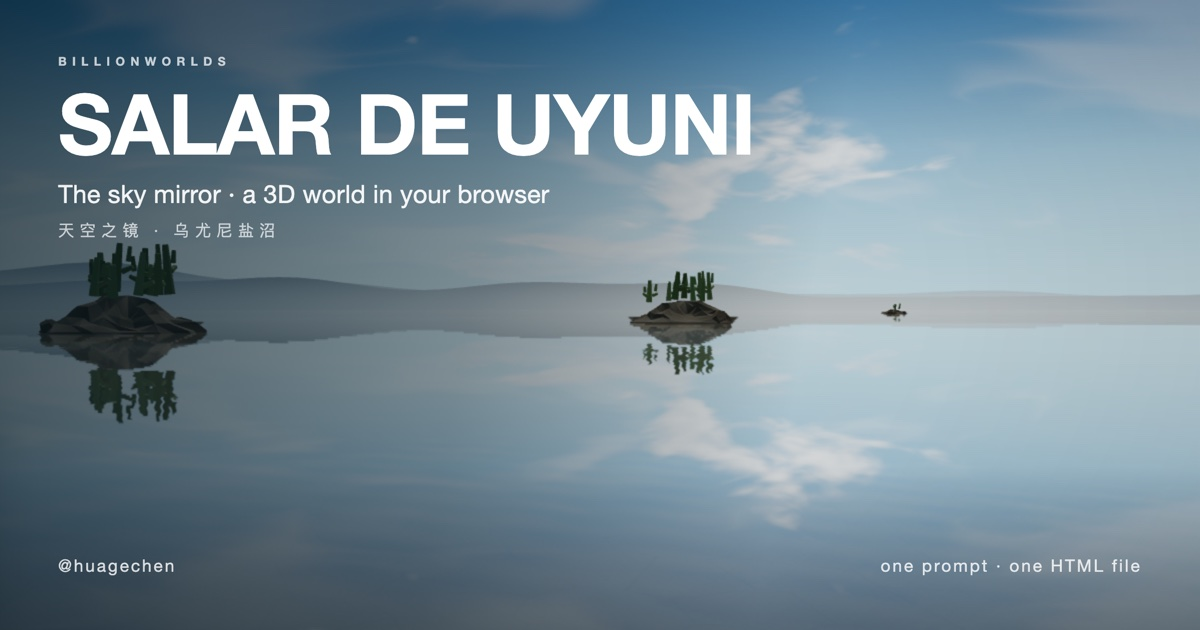
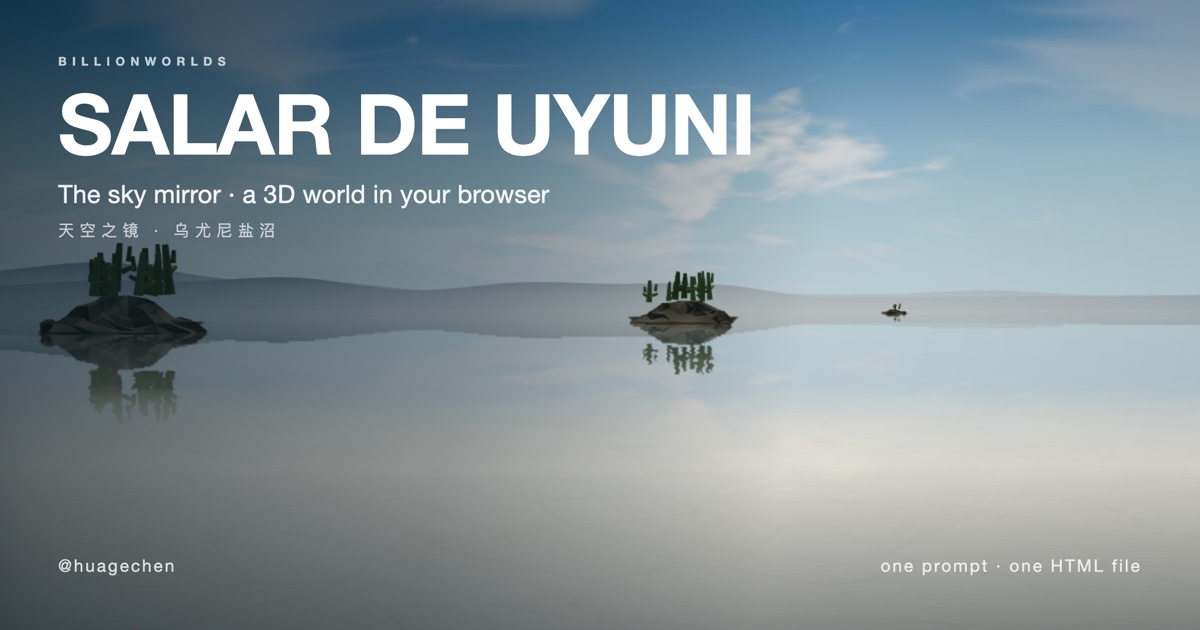
feat: read dry salt crust into the foreground
Widen the dry rim, soften the polygonal seams, add plate tone variation
and a normal-map rake, and let the shallow film reveal the crust near
the viewer while the mirror recedes into the distance.

diff --git a/scene.html b/scene.html
@@ -1173,8 +1173,8 @@
         const jx = hash2i(gx, gy, 21);
         const jy = hash2i(gx, gy, 22);
         points.push({
-          x: (gx + 0.16 + jx * 0.68) * cell,
-          y: (gy + 0.16 + jy * 0.68) * cell
+          x: (gx + 0.08 + jx * 0.84) * cell,
+          y: (gy + 0.08 + jy * 0.84) * cell
         });
       }
     }
@@ -1203,7 +1203,7 @@
         }
 
         const edge = Math.sqrt(second) - Math.sqrt(nearest);
-        const line = 1 - smoothstep(0.0, 2.15, edge);
+        const line = 1 - smoothstep(0.0, 3.0, edge);
         const cellTone = ((gx * 7 + gy * 13) % 9) / 9;
 
         const u = x / size, v = y / size;
@@ -1214,9 +1214,9 @@
 
         // A very restrained ivory/cool-grey modulation, never brown.
         const warm = smoothstep(0.42, 0.8, broad * 0.7 + broad2 * 0.3);
-        let r = 0.955 + 0.035 * warm + 0.012 * cellTone;
-        let g = 0.949 + 0.034 * warm + 0.014 * cellTone;
-        let b = 0.930 + 0.028 * warm + 0.016 * cellTone;
+        let r = 0.955 + 0.035 * warm + 0.028 * cellTone;
+        let g = 0.949 + 0.034 * warm + 0.032 * cellTone;
+        let b = 0.930 + 0.028 * warm + 0.036 * cellTone;
         const cool = smoothstep(0.46, 0.78, broad2) * 0.035;
         r -= cool * 0.55;
         g -= cool * 0.15;
@@ -1225,12 +1225,12 @@
         // Fine crystal grain, plus the faint polygon seam.
         const speck = (grain > 0.996 ? 0.028 : 0) + (grain < 0.0025 ? -0.02 : 0);
         const grainMod = (grain2 - 0.5) * 0.027;
-        const lineMod = line * 0.05 + line * (grain - 0.5) * 0.012;
+        const lineMod = line * (0.06 * (0.55 + 0.45 * cellTone)) + line * (grain - 0.5) * 0.012;
         r = clamp(r + grainMod - lineMod + speck, 0, 1);
         g = clamp(g + grainMod - lineMod * 0.92 + speck, 0, 1);
         b = clamp(b + grainMod - lineMod * 0.82 + speck, 0, 1);
 
-        const height = clamp(0.55 + (broad - 0.5) * 0.24 + (grain2 - 0.5) * 0.1 - line * 0.16 + speck, 0, 1);
+        const height = clamp(0.55 + (broad - 0.5) * 0.24 + (grain2 - 0.5) * 0.1 - line * 0.34 + speck, 0, 1);
         heights[y * size + x] = height;
 
         data[p++] = r * 255;
@@ -1244,7 +1244,7 @@
     // ridges; the broad undulation stays almost flat so the mirror is not
     // disturbed. R = world X, G = world Z, B = up.
     const normalData = new Uint8Array(size * size * 4);
-    const slopeScale = 3.2;
+    const slopeScale = 5.2;
     for (let y = 0; y < size; y++) {
       for (let x = 0; x < size; x++) {
         const hL = heights[y * size + (x - 1 + size) % size];
@@ -2178,12 +2178,19 @@
       float edge = (texture2D(uNoise, p * 0.081 + vec2(0.44, 0.09)).r - 0.5) * 0.03;
       wetField += edge;
 
-      float wet = smoothstep(0.19, 0.40, wetField);
-      float damp = smoothstep(0.14, 0.34, wetField);
-      float mirror = smoothstep(0.24, 0.46, wetField);
-      float farWet = smoothstep(120.0, 650.0, dist);
+      float wet = smoothstep(0.20, 0.31, wetField);
+      float damp = smoothstep(0.15, 0.28, wetField);
+      float mirror = smoothstep(0.26, 0.39, wetField);
+      float farWet = smoothstep(300.0, 1000.0, dist);
       wet = mix(wet, 1.0, farWet);
       mirror = mix(mirror, 1.0, farWet * 0.94);
+
+      // The view opens on the dry rim of a shallow sheet: dry crust behind,
+      // mirror water ahead. A world-space band keeps the transition stable.
+      float shoreBand = smoothstep(-45.0, 8.0, p.y);
+      wet *= mix(1.0, 0.12, shoreBand);
+      mirror *= mix(1.0, 0.10, shoreBand);
+      damp *= mix(1.0, 0.25, shoreBand);
 
       // ---------------------------------------------------------------
       // Salt crust — ivory and cool-grey mineral modulation, two scales of
@@ -2194,22 +2201,31 @@
       vec3 saltCol = mix(uSaltWarm, uSaltWhite, smoothstep(0.28, 0.74, macroWarm));
       saltCol = mix(saltCol, uSaltCool, smoothstep(0.44, 0.82, macroCool) * 0.34);
 
-      vec2 saltUvA = p * 0.090;
+      vec2 saltUvA = p * 0.055;
       vec2 saltUvB = rotate(p, 0.61) * 0.028 + vec2(0.37, 0.21);
       vec3 saltA = texture2D(uSalt, saltUvA).rgb;
       vec3 saltB = texture2D(uSalt, saltUvB).rgb;
-      float saltDetailFade = 1.0 - smoothstep(18.0, 240.0, dist);
-      vec3 saltTex = mix(saltB, saltA, mix(0.35, 0.8, saltDetailFade));
-      saltCol *= mix(vec3(0.945), saltTex * 1.12, mix(0.74, 0.97, saltDetailFade));
+      float saltDetailFade = 1.0 - smoothstep(40.0, 900.0, dist);
+      vec3 saltTex = mix(saltB, saltA, mix(0.5, 0.78, saltDetailFade));
+
+      // Broad mineral plates give the mid-ground its dry/wet patchwork.
+      float plates = texture2D(uNoise, p * 0.0042 + vec2(0.07, 0.31)).r;
+      float plateRange = smoothstep(12.0, 260.0, dist) * (1.0 - smoothstep(700.0, 1600.0, dist));
+      saltCol *= 1.0 + (plates - 0.5) * 0.16 * plateRange;
+
+      // Only part of the flat is crusty; elsewhere a smooth water film hides
+      // the polygons, which keeps the network from reading as a mesh.
+      float crustMask = smoothstep(0.30, 0.62, plates);
+      saltCol *= mix(vec3(0.97), saltTex * 1.08, mix(0.5, 1.0, saltDetailFade) * (0.58 + 0.42 * crustMask));
 
       // A faint blue-grey veil where water is thin, never brown or muddy.
-      vec3 wetSalt = mix(saltCol, saltCol * uWaterTint * 1.35 + uWaterTint * 0.02, 0.08 + damp * 0.22);
+      vec3 wetSalt = mix(saltCol, saltCol * uWaterTint * 1.35 + uWaterTint * 0.02, 0.06 + damp * 0.28);
       wetSalt *= mix(1.0, 0.935, wet);
 
-      // A slightly brighter, drier lip right at the waterline gives the
-      // shallow sheets a readable edge without drawing a hard outline.
+      // A brighter dry lip plus a darker damp band make the waterline read.
       float shore = smoothstep(0.255, 0.315, wetField) * (1.0 - smoothstep(0.315, 0.40, wetField));
-      wetSalt *= 1.0 + shore * 0.035;
+      float dampBand = smoothstep(0.31, 0.38, wetField) * (1.0 - smoothstep(0.38, 0.47, wetField));
+      wetSalt *= 1.0 + shore * 0.10 - dampBand * 0.07;
 
       // ---------------------------------------------------------------
       // Surface lighting. The flat surface uses the same sun/moon/hemi
@@ -2224,6 +2240,18 @@
       // Salt has a very high albedo, but the whole scene is displayed through
       // ACES: keep the crust near 1.0 in linear light so the mirror still reads.
       vec3 litSalt = wetSalt * (ambient + direct * 0.94) * 0.55;
+
+      // Rake the low sun/moon across the crust ridges. The normal map only
+      // lifts dry or damp salt; open water keeps its ripple normal.
+      vec3 saltN = texture2D(uSaltNormal, saltUvA).rgb * 2.0 - 1.0;
+      vec3 saltNB = texture2D(uSaltNormal, saltUvB).rgb * 2.0 - 1.0;
+      vec3 saltDir = normalize(vec3(saltN.x + saltNB.x * 0.6, 1.0, saltN.y + saltNB.y * 0.6));
+      vec3 lightDir = normalize(
+        uSunDir * max(uSunLightIntensity, 0.0) +
+        uMoonDir * max(uMoonLightIntensity, 0.0) + vec3(0.0, 0.0001, 0.0)
+      );
+      float rake = clamp(dot(saltDir, lightDir), 0.0, 1.0);
+      litSalt *= mix(1.0, 0.90 + 0.22 * rake, (1.0 - wet) * (1.0 - farWet));
 
       // Delicate caustic-like variation in the shallowest foreground.
       float nearWater = (1.0 - smoothstep(8.0, 105.0, dist)) * wet;
@@ -2279,6 +2307,9 @@
         uReflectionStrength * wet * (0.10 + 0.90 * fresnel) * (0.46 + 0.54 * mirror),
         0.0, 0.972
       );
+      // The water film is only a few centimetres deep near the viewer: let the
+      // crust read through it, and save the clean mirror for the distance.
+      mirrorWeight *= mix(0.85, 1.0, smoothstep(12.0, 110.0, dist));
 
       vec3 col = mix(litSalt, refl, mirrorWeight);
 
